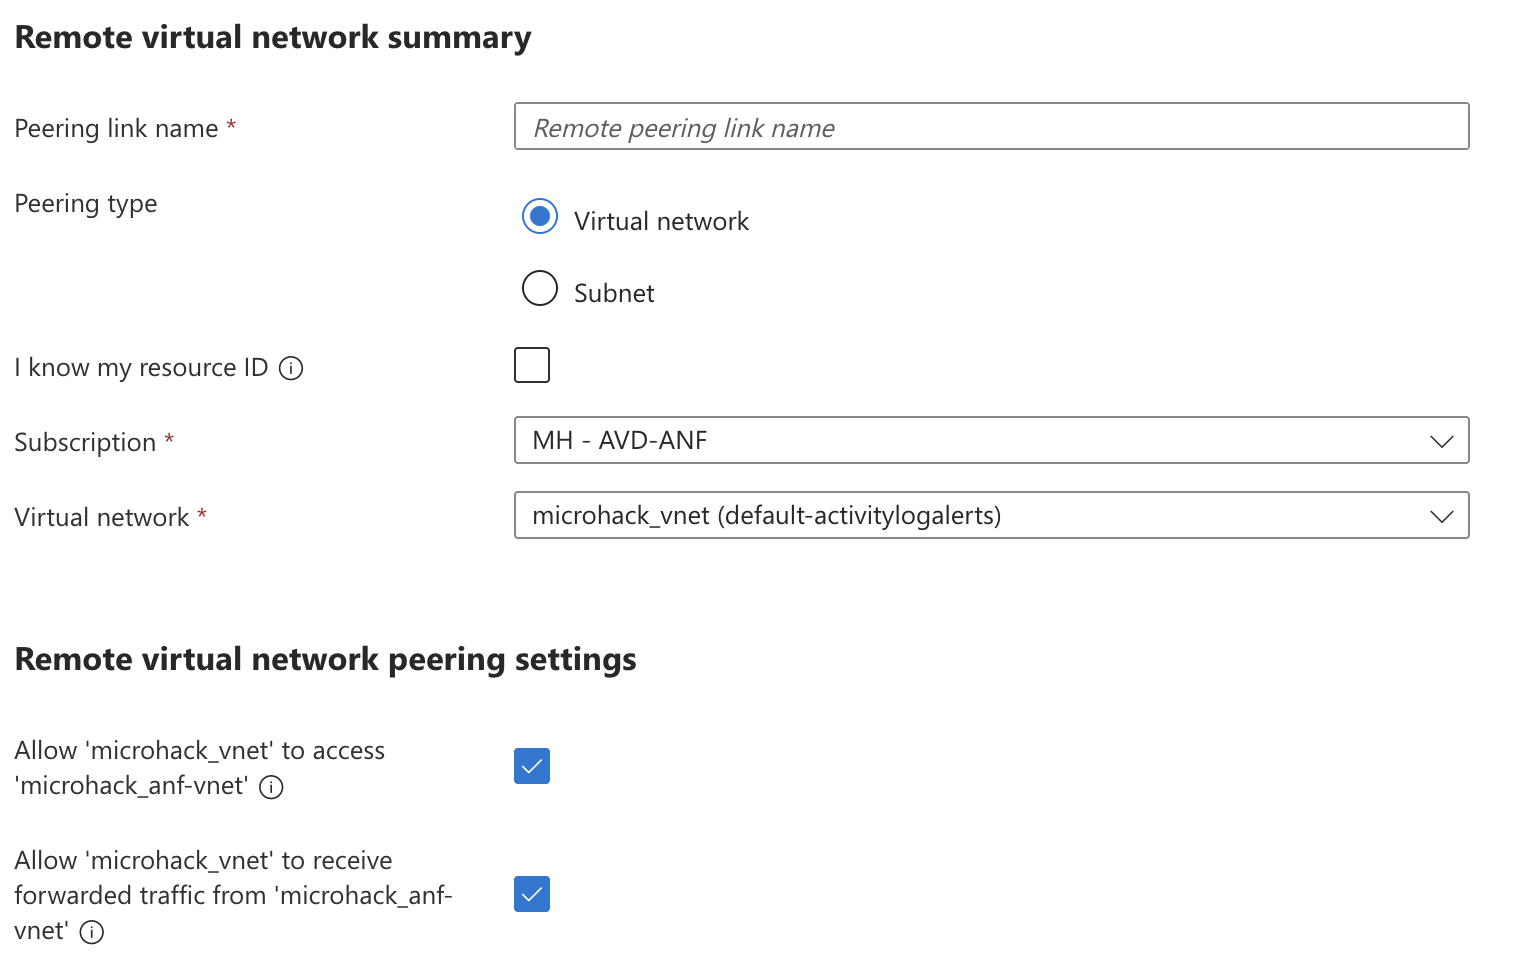
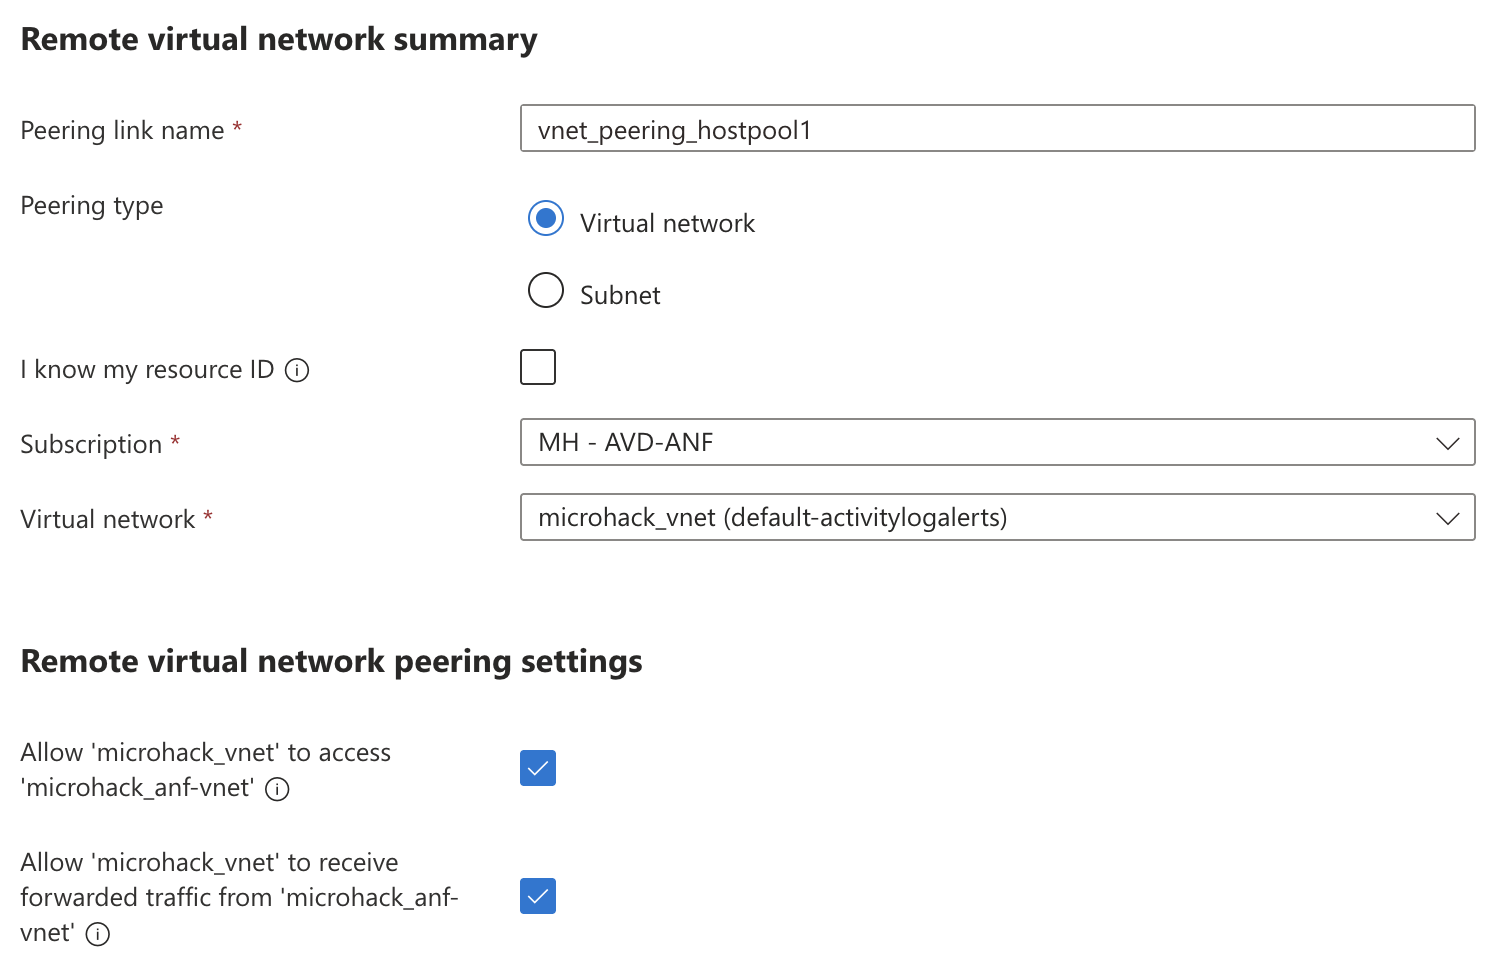
update

diff --git a/03-Azure/01-03-Infrastructure/11_Azure_NetApp_Files_Microhack_VDI_AVD/walkthrough/challenge-02/solution-02.md b/03-Azure/01-03-Infrastructure/11_Azure_NetApp_Files_Microhack_VDI_AVD/walkthrough/challenge-02/solution-02.md
@@ -85,27 +85,33 @@ Note: You can also create and delegate a subnet when you [create a volume for Az
 
 ### **Task 3: Create VNet Peering**
 
-1. Navigate to Virtual networks in the Azure Portal.
+1. Navigate to Virtual networks in the **Azure Portal**
 
 2. In Virtual networks, select the network you want to create a peering for.
 
-3. Select Peerings in Settings.
+3. Select **Peerings** in Settings.
 
 <kbd> <img src="../img/solution-02-create-vnet-peering-2.png" /> </kbd>
 
-4. Select + Add
+4. Select **+ Add**
 
-5. Enter or select values for the following settings, and then select Add.
+5. Enter or select values for the following settings, and then select **Add**
 
 * Peering link name: **vnet_peering_hostpool{Group Number}**
 * Peering type: **Virtual network**
 * Subscription: **Leave defaut**
 * Virtual network: **microhack_vnet**
 * Remote virtual network peering settings: 
-* Allow the peered virtual network to access '**microhack_vnet**': **checked**
-* Allow the peered virtual network to receive forwarded traffic from '**microhack_vnet**': **checked**
+* Allow the peered virtual network to access 'vnet': **checked**
+* Allow the peered virtual network to receive forwarded traffic from 'vnet': **checked**
 
 <kbd> <img src="../img/solution-02-create-vnet-peering.png" /> </kbd>
+
+Peering link name: **vnet_peering_hostpool{Group Number}**
+* Allow 'vnet' to access the peered virtual network: **checked**
+* Allow 'vnet' to receive forwarded traffic from the peered virtual network: **checked**
+
+<kbd> <img src="../img/solution-02-create-vnet-peering-3.png" /> </kbd>
 
 
 💥[**Considerations:**](https://learn.microsoft.com/en-us/azure/azure-netapp-files/azure-netapp-files-delegate-subnet)
